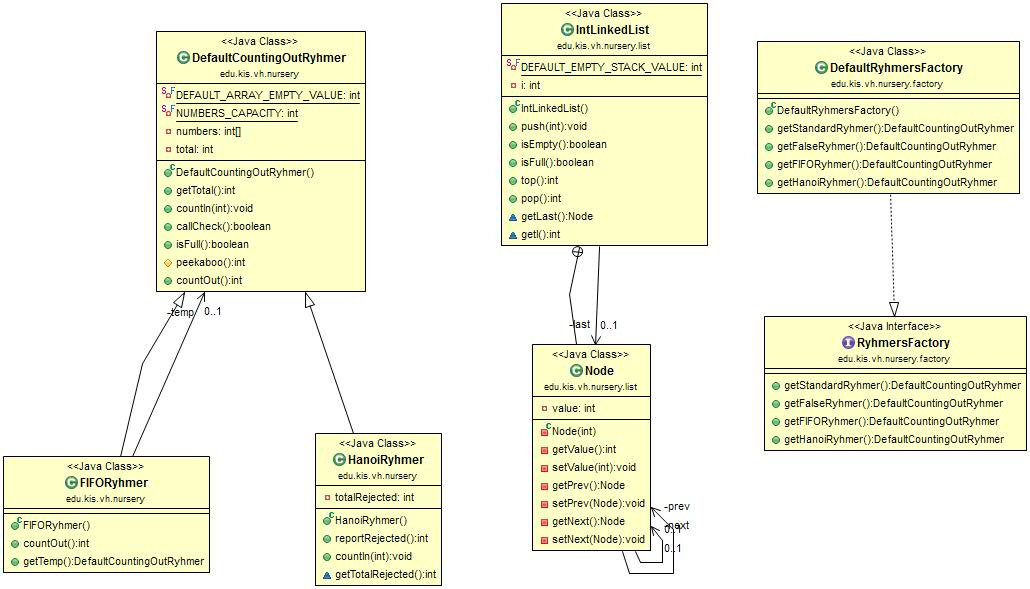
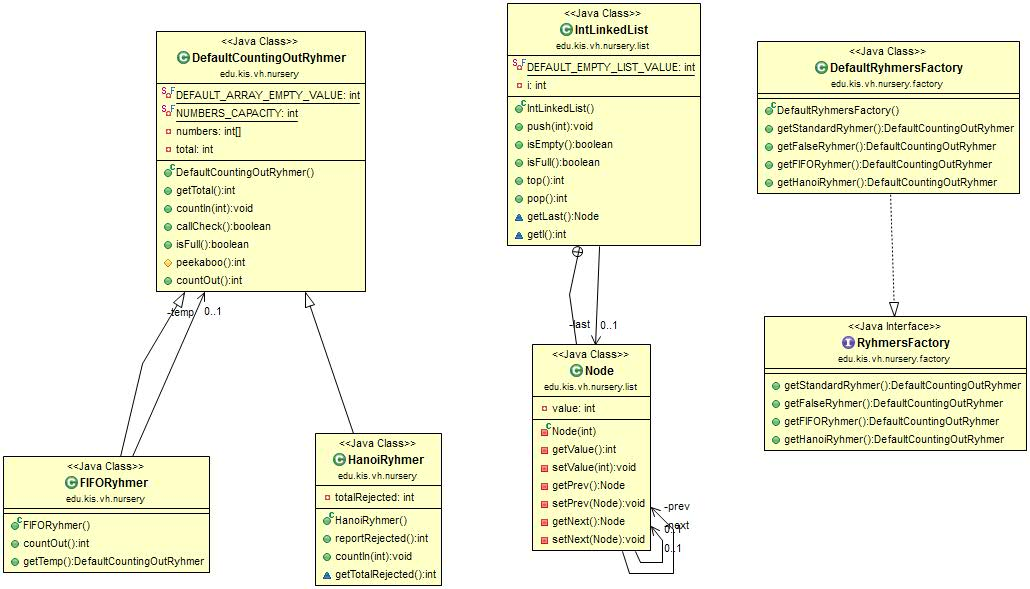
Dodano dokumentację klasy IntLinkedList

Changed region(s): [[0.466, 0.0, 0.7146, 0.4278]]

diff --git a/src/main/java/edu/kis/vh/nursery/list/IntLinkedList.java b/src/main/java/edu/kis/vh/nursery/list/IntLinkedList.java
@@ -1,12 +1,26 @@
 package edu.kis.vh.nursery.list;
 
+/**
+ * @author Kamil Błażejczuk
+ * Klasa zapewnia strukturę LinkedList tylko dla elementów typu int
+ */
 public class IntLinkedList {
 
-	private static final int DEFAULT_EMPTY_STACK_VALUE = -1;
+	/**
+	 * Domyślna wartość zwracana, gdy lista jest pusta
+	 */
+	private static final int DEFAULT_EMPTY_LIST_VALUE = -1;
 	
+	/**
+	 * Ostatni element listy
+	 */
 	private Node last;
 	private int i;
 
+	/**
+	 * Metoda dodaje nowy element do listy
+	 * @param i Wartość dodanego elementu
+	 */
 	public void push(int i) {
 		if (last == null)
 			last = new Node(i);
@@ -17,23 +31,39 @@ public class IntLinkedList {
 		}
 	}
 
+	/**
+	 * Metoda sprawdza czy lista jest pusta
+	 * @return Zwraca true, gdy jest pusta, false, jeśli nie jest
+	 */
 	public boolean isEmpty() {
 		return last == null;
 	}
 
+	/**
+	 * Metoda sprawdza czy lista jest pełna
+	 * @return Zawsze zwraca false (lista nie ma limitu pojemności)
+	 */
 	public boolean isFull() {
 		return false;
 	}
 
+	/**
+	 * Metoda zwraca ostatni element z listy
+	 * @return Zwraca ostatni element z listy gdy nie jest pusta, w przeciwnym wypadku zwraca -1
+	 */
 	public int top() {
 		if (isEmpty())
-			return DEFAULT_EMPTY_STACK_VALUE;
+			return DEFAULT_EMPTY_LIST_VALUE;
 		return last.getValue();
 	}
 
+	/**
+	 * Metoda zwraca ostatni element z listy i usuwa go z niej
+	 * @return Zwraca ostatni element z listy gdy nie jest pusta, w przeciwnym wypadku zwraca -1
+	 */
 	public int pop() {
 		if (isEmpty())
-			return DEFAULT_EMPTY_STACK_VALUE;
+			return DEFAULT_EMPTY_LIST_VALUE;
 		final int ret = last.getValue();
 		last = last.getPrev();
 		return ret;
@@ -47,13 +77,26 @@ public class IntLinkedList {
 		return i;
 	}
 	
+	/**
+	 * Klasa zagnieżdżona, zapewniająca klasie IntLinkedList strukturę elemntu listy
+	 *
+	 */
 	private class Node {
 
 		// metody top i pop klasy IntLinkedList używają settera i gettera zamiast bezpośredniego dostępu do pola
+		/**
+		 * Wartość elementu listy
+		 */
 		private int value;
 		// metody push i pop klasy IntLinkedList używają settera i gettera zamiast bezpośredniego dostępu do pola
+		/**
+		 * Poprzedni element listy
+		 */
 		private Node prev;
 		// metoda push klasy IntLinkedList używa settera i gettera zamiast bezpośredniego dostępu do pola
+		/**
+		 * Następny element listy
+		 */
 		private Node next;
 
 		private Node(int i) {
